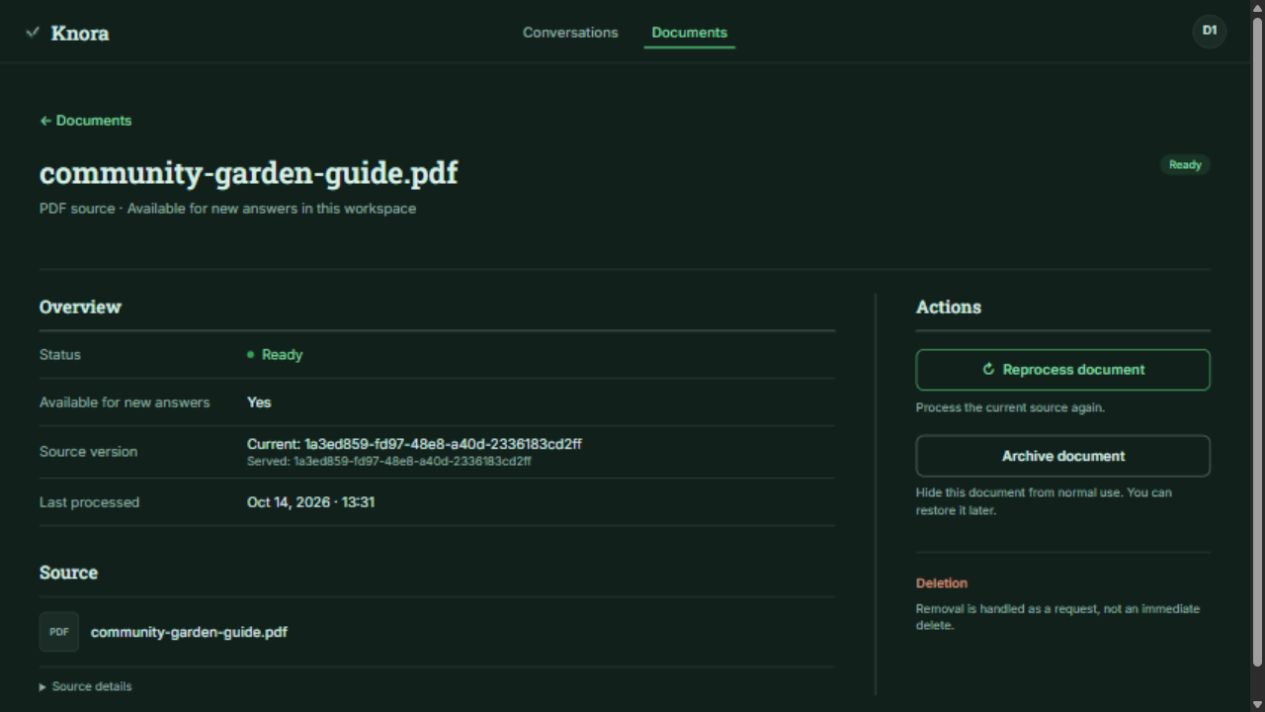
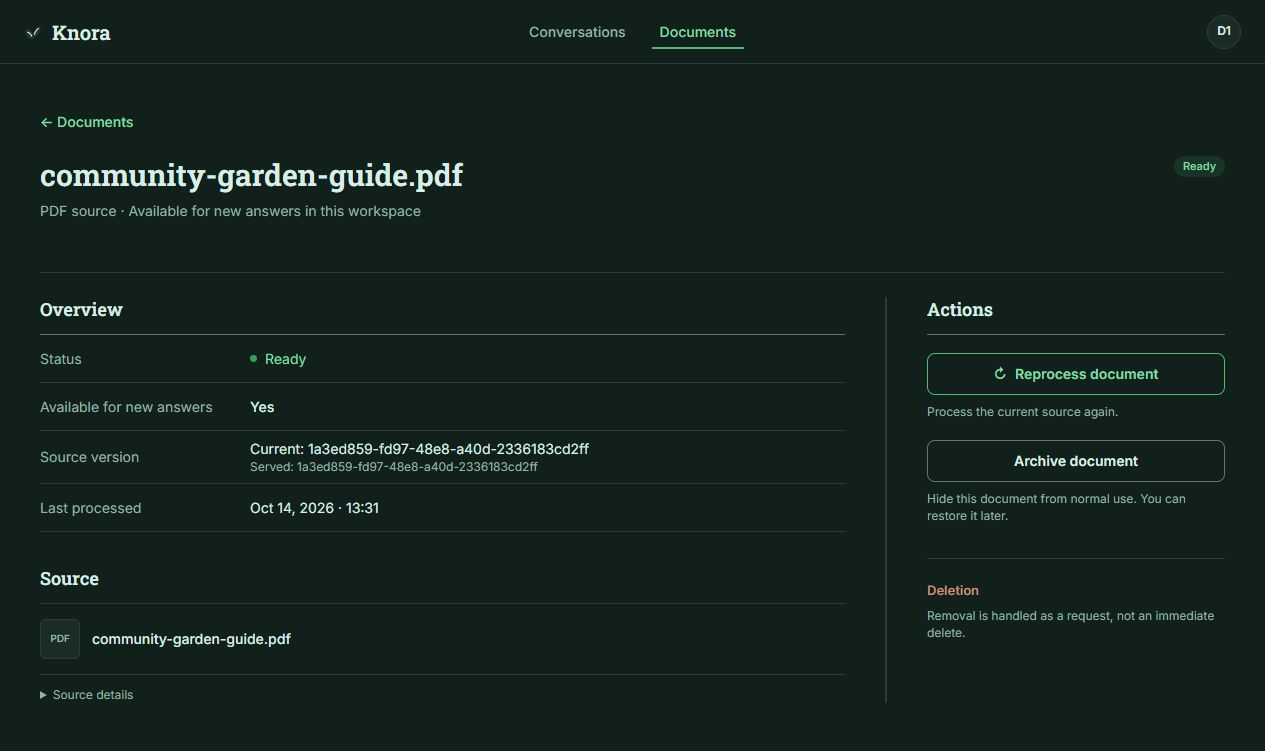
docs: recapture readable Ready and refusal screenshots

diff --git a/README.vi.md b/README.vi.md
@@ -41,17 +41,17 @@ _Câu trả lời với trích dẫn đang được chọn. Nội dung “before
 
 ![community-garden-guide.pdf đã upload và xử lý thành công, với trạng thái tài liệu Ready](docs/assets/readme/pdf-upload.jpg)
 
-Upload tạo một Ingestion Job được lưu bền vững. Tài liệu mẫu đạt trạng thái **Ready** sau khi worker xử lý.
+Upload tạo một Ingestion Job được lưu bền vững. Tài liệu mẫu đạt trạng thái **Ready** sau khi worker xử lý. [Mở screenshot ở kích thước gốc](docs/assets/readme/pdf-upload.jpg).
 
 ### Không có bằng chứng hỗ trợ
 
 ![Knora từ chối câu hỏi về mật khẩu Wi-Fi văn phòng không có trong tài liệu mẫu](docs/assets/readme/refusal.jpg)
 
-Câu hỏi này trả về `INSUFFICIENT_EVIDENCE`, không tạo câu trả lời hoặc trích dẫn.
+Câu hỏi này trả về `INSUFFICIENT_EVIDENCE`, không tạo câu trả lời hoặc trích dẫn. [Mở screenshot ở kích thước gốc](docs/assets/readme/refusal.jpg).
 
-**Nguồn gốc screenshots:** chụp lại ngày **2026-10-14** bằng production frontend build từ `c71d35d` và backend source tree `c78140c`. Câu trả lời và thông báo từ chối đã lưu được tạo ban đầu từ `7697615`, sử dụng Cloudflare Qwen3 embeddings (`embedding-cloudflare-qwen3-06b-v1`) và GPT-OSS generation. Lần chụp lại sử dụng các kết quả đó, không thay đổi nội dung hoặc gọi model mới.
+**Nguồn gốc screenshots:** chụp ngày **2026-10-14**. Screenshot câu trả lời sử dụng production frontend build `c71d35d` với backend source `7c8d19b`; screenshots Ready và từ chối sử dụng development runtime source `96a6379`, với Dev Tools được ẩn bằng tùy chọn có sẵn cho phiên làm việc. Các capture giữ toàn bộ giao diện, không cắt hoặc chỉnh nội dung sản phẩm.
 
-Screenshot câu trả lời sau đó được chụp lại từ cùng frontend build với backend source `7c8d19b`. Ảnh giữ toàn bộ viewport với sidebar Workspace/Conversations, Evidence Inspector và ô nhập câu hỏi đều hiển thị. Câu trả lời và citation đã lưu không thay đổi.
+Câu trả lời và thông báo từ chối đã lưu được tạo ban đầu từ `7697615`, sử dụng Cloudflare Qwen3 embeddings (`embedding-cloudflare-qwen3-06b-v1`) và GPT-OSS generation. Lần chụp lại sử dụng các kết quả đó, không thay đổi nội dung hoặc gọi model mới.
 
 </details>
 

diff --git a/README.md b/README.md
@@ -41,17 +41,17 @@ _An answer with its citation selected. The answer's “before 9 AM” statement 
 
 ![community-garden-guide.pdf uploaded and successfully processed, with its document status showing Ready](docs/assets/readme/pdf-upload.jpg)
 
-The upload creates a durable Ingestion Job. The sample reached **Ready** after worker processing.
+The upload creates a durable Ingestion Job. The sample reached **Ready** after worker processing. [Open the full-size screenshot](docs/assets/readme/pdf-upload.jpg).
 
 ### No supporting evidence
 
 ![Knora refusing a question about an office Wi-Fi password that is absent from the sample document](docs/assets/readme/refusal.jpg)
 
-This question returned `INSUFFICIENT_EVIDENCE` without a generated answer or citation.
+This question returned `INSUFFICIENT_EVIDENCE` without a generated answer or citation. [Open the full-size screenshot](docs/assets/readme/refusal.jpg).
 
-**Screenshot provenance:** recaptured on **2026-10-14** with a production frontend build from `c71d35d` and backend source tree `c78140c`. The stored answer and refusal were originally produced from `7697615`, using Cloudflare Qwen3 embeddings (`embedding-cloudflare-qwen3-06b-v1`) and GPT-OSS generation. Recapture reused those results without changing their content or making new model calls.
+**Screenshot provenance:** captured on **2026-10-14**. The answer screenshot uses production frontend build `c71d35d` with backend source `7c8d19b`; the Ready and refusal screenshots use development runtime source `96a6379`, with Dev Tools hidden through its built-in session control. Captures retain the full interface without cropping or editing product content.
 
-The answer screenshot was subsequently recaptured from the same frontend build with backend source `7c8d19b`. The image preserves the full viewport with the Workspace/Conversations sidebar, Evidence Inspector and question composer visible. The stored answer and citation are unchanged.
+The stored answer and refusal were originally produced from `7697615`, using Cloudflare Qwen3 embeddings (`embedding-cloudflare-qwen3-06b-v1`) and GPT-OSS generation. Recapture reused those results without changing their content or making new model calls.
 
 </details>
 
